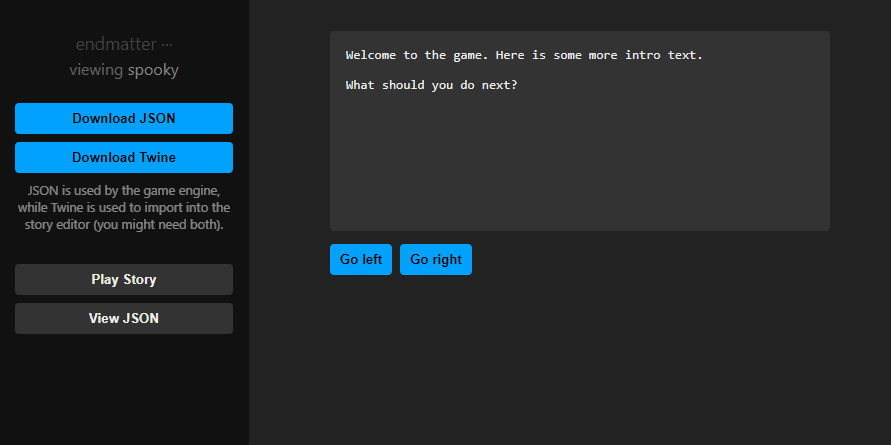
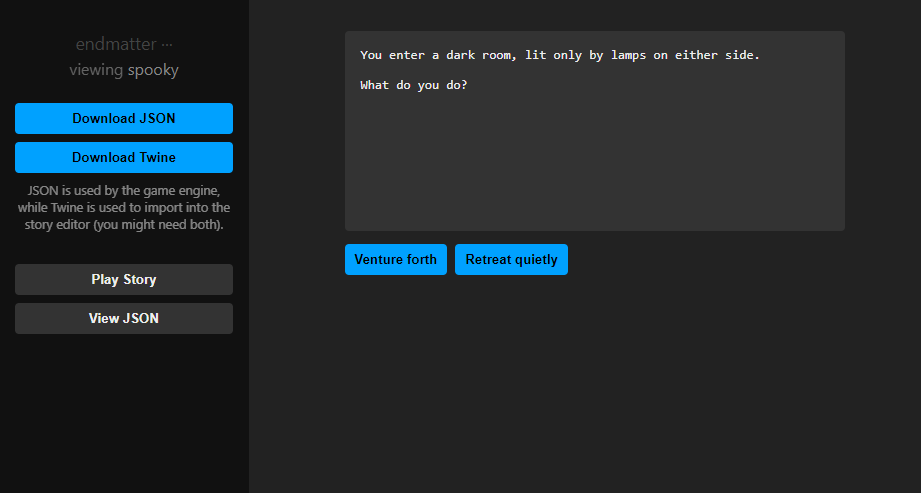
update screenshot/dev story

diff --git a/src/dev.html b/src/dev.html
@@ -10,18 +10,18 @@
 <body>
   <div id="root"></div>
   <div id="storyData" style="display: none">
-    <tw-storydata name="spooky" startnode="1" creator="Twine" creator-version="2.3.14" zoom="1" format="Endmatter" format-version="0.0.1"><tw-passagedata pid="1" name="intro" tags="" position="124,121" size="200,100">Welcome to the game. Here is some more intro text.
+    <tw-storydata name="spooky" startnode="1" creator="Twine" creator-version="2.3.14" zoom="1" format="Endmatter" format-version="0.0.1"><tw-passagedata pid="1" name="intro" tags="" position="124,121" size="200,100">You enter a dark room, lit only by lamps on either side.
 
-What should you do next?
+What do you do?
 
-[[Go left->left_door]]
-[[Go right->right_door]]
+[[Venture forth->foyer]]
+[[Retreat quietly->entryway]]
 
 ---
-actor: narrator
-sound: spooky.wav</tw-passagedata><tw-passagedata pid="2" name="left_door" tags="" position="49,271" size="100,100">You went through the left door!
+audio: spooky.wav
+actor: narrator</tw-passagedata><tw-passagedata pid="2" name="foyer" tags="" position="49,271" size="100,100">You went through the left door!
 
-[[Keep Going->keep_going]]</tw-passagedata><tw-passagedata pid="3" name="right_door" tags="" position="199,270" size="100,100">You went through the right door!
+[[Keep Going->keep_going]]</tw-passagedata><tw-passagedata pid="3" name="entryway" tags="" position="199,270" size="100,100">You went through the right door!
 
 [[something_spooky]]</tw-passagedata><tw-passagedata pid="4" name="keep_going" tags="" position="49,421" size="100,100">Wow this hallway sure is long...
 
